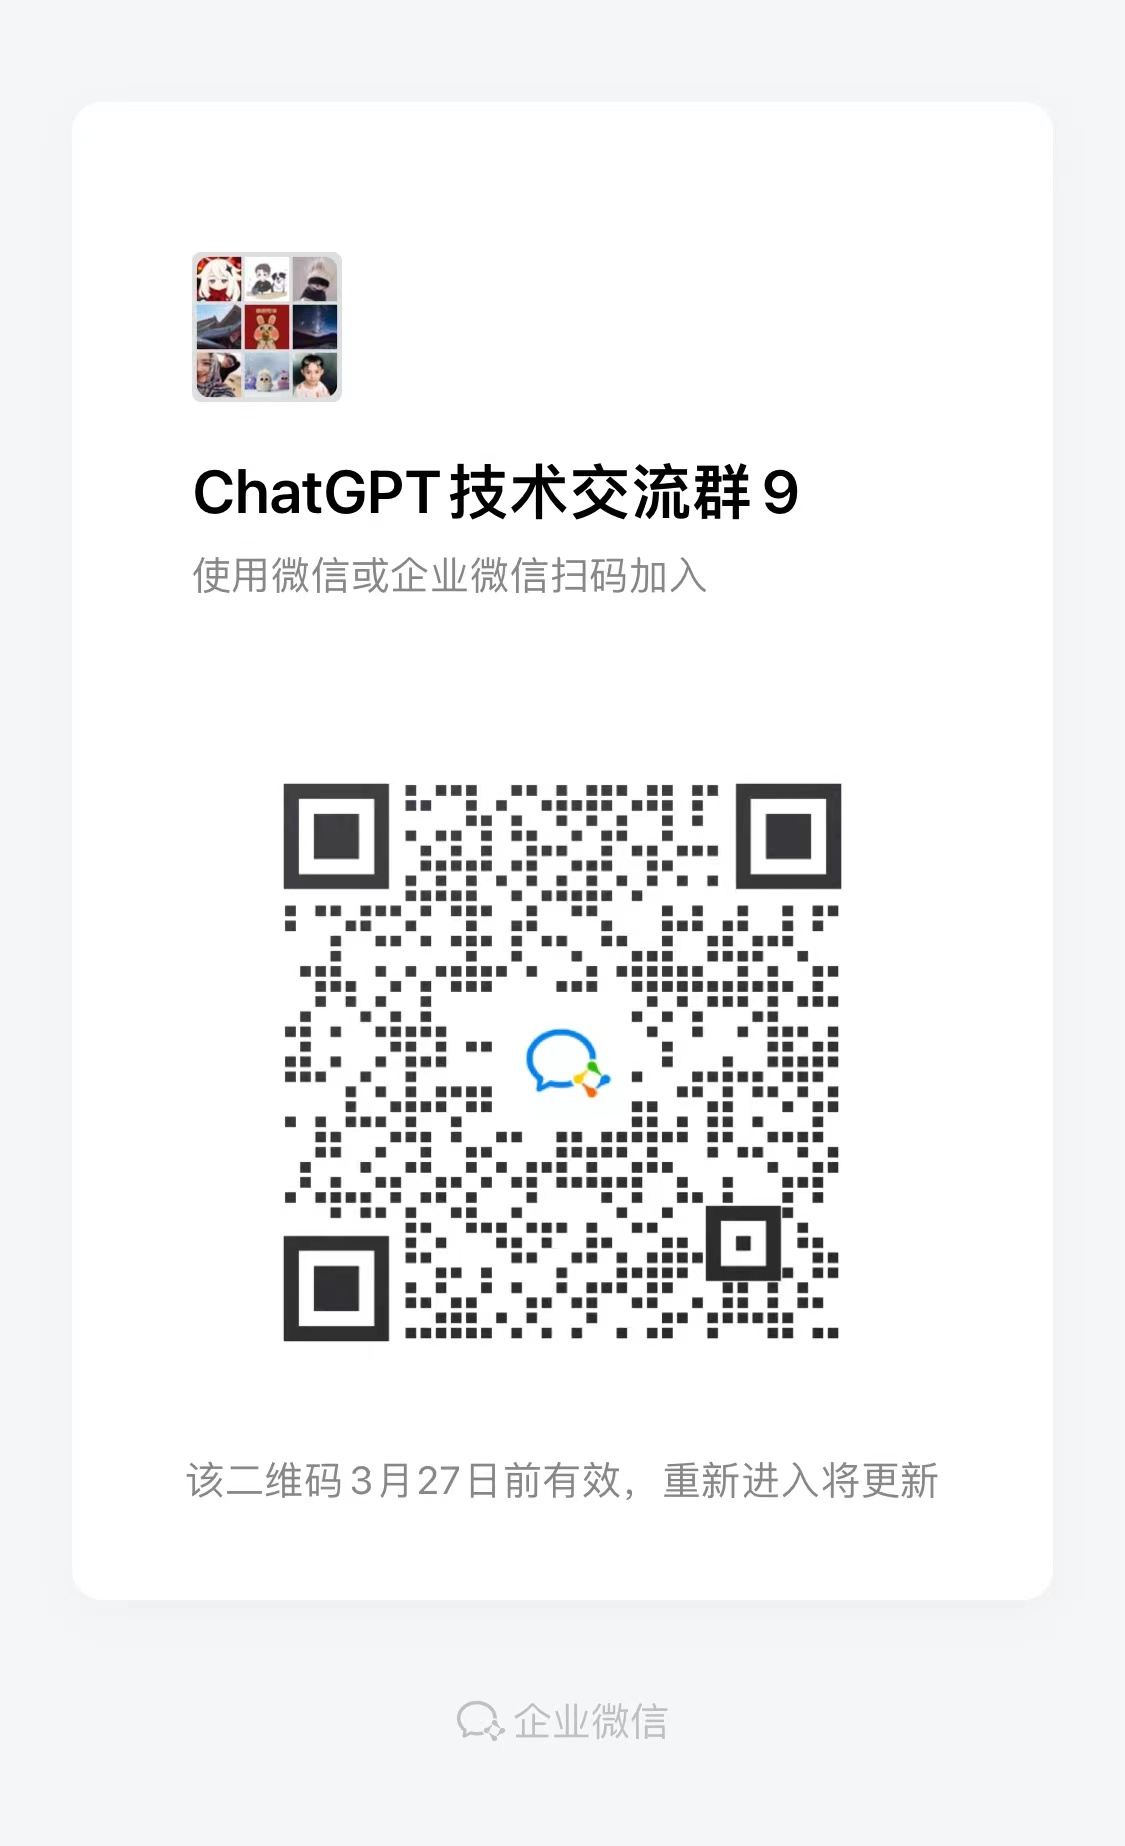
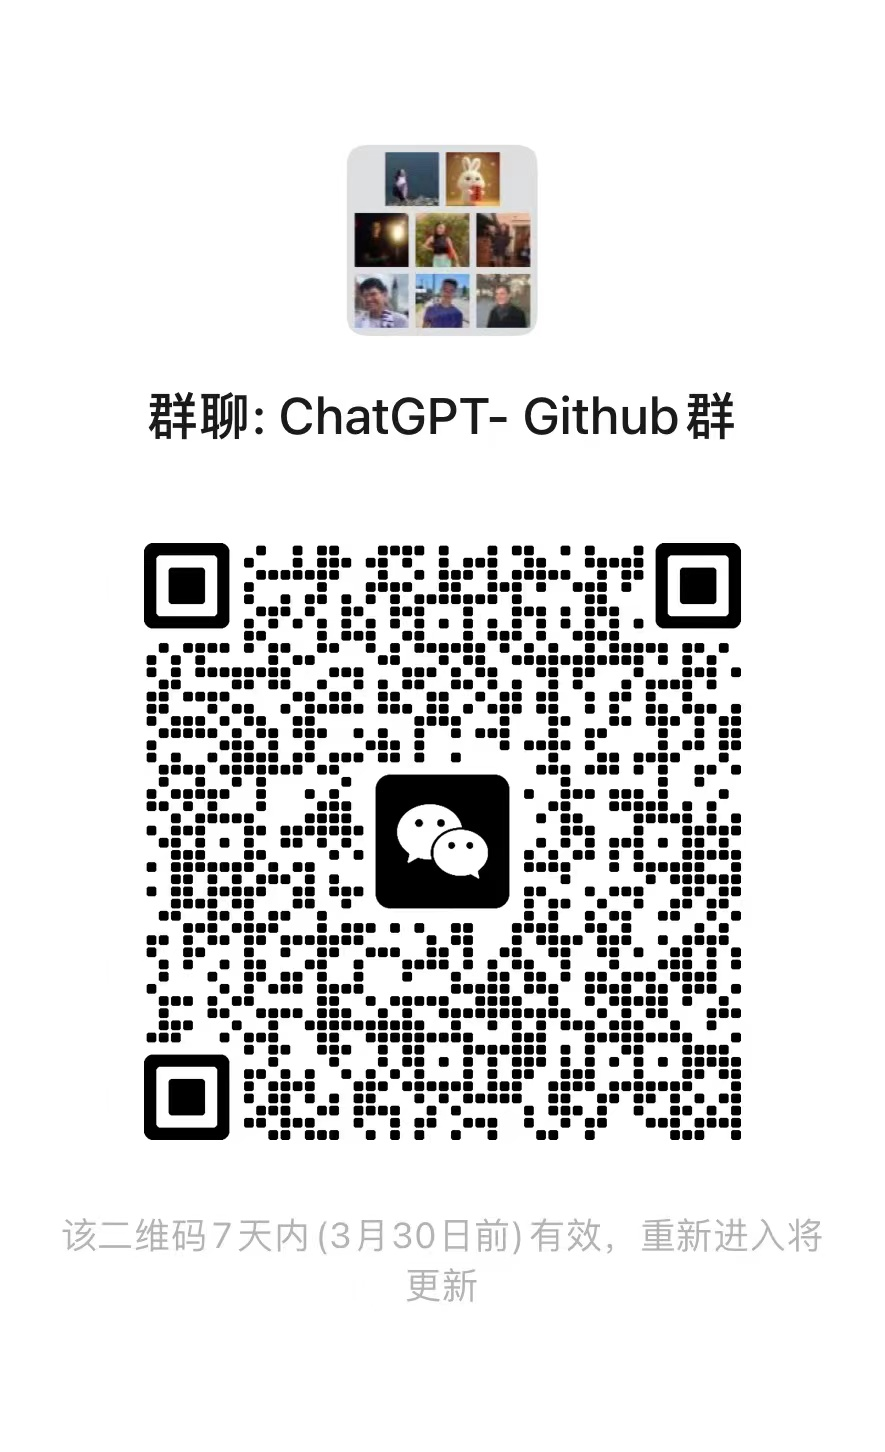
update group code

diff --git a/README.md b/README.md
@@ -12,12 +12,12 @@ ChatGPT工具和资料汇总学习，持续更新......
 【1】打造精品付费知识星球，已有众多伙伴加入。加入星球后，您将免费获得ChatGPT账户，并可免费进入「ChatGPT训练营VIP群」，共享最新资讯、技术实践及项目实施等经验。
 
 
-【2】ChatGPT Plus的好处不必多说了，但因其高昂的费用而未被广泛采用。为了解决这个问题，我们正在考虑众筹ChatGPT Plus，提供三个计划A、B、C，每人分别为49、32、26元/月。这将降低每个账号每月的成本，并为关注AI发展的朋友提供低成本体验ChatGPT Plus的机会。参与方式请扫下面👇🏻众筹计划的二维码，备注众筹，拉你进众筹群。
+[//]: # (【2】ChatGPT Plus的好处不必多说了，但因其高昂的费用而未被广泛采用。为了解决这个问题，我们正在考虑众筹ChatGPT Plus，提供三个计划A、B、C，每人分别为49、32、26元/月。这将降低每个账号每月的成本，并为关注AI发展的朋友提供低成本体验ChatGPT Plus的机会。参与方式请扫下面👇🏻众筹计划的二维码，备注众筹，拉你进众筹群。)
 
 
-| 二维码加群                                       | 公众号（回复"交流群"）                                      | 加入星球(更多优质内容)                                  | ChatGPT 众筹计划 （扫码备注众筹）                         
-|---------------------------------------------|---------------------------------------------------|-----------------------------------------------|-----------------------------------------------|
-| <img src="Picture/Chat8.jpg" width="300" /> | <img src="Picture/qrcode_MLIOT.jpg" width="200"/> | <img src="Picture/训练营优惠券.jpeg" width="250" /> | <img src="Picture/Yuanvip.png" width="200" /> | 
+| 二维码加群                                        | 公众号（回复"交流群"）                                      | 加入星球(更多优质内容)                                  |                          
+|----------------------------------------------|---------------------------------------------------|-----------------------------------------------|
+| <img src="Picture/Chat9.jpeg" width="300" /> | <img src="Picture/qrcode_MLIOT.jpg" width="200"/> | <img src="Picture/训练营优惠券.jpeg" width="250" /> |
 
 [//]: # (| 二维码加群                                        | 机器学习与物联网公众号（回复"交流群"）                              | 拉你入群&#40;备注github&#41;                            )
 
@@ -260,6 +260,7 @@ ChatGPT工具和资料汇总学习，持续更新......
 
 ## 资料
 【PDF资料】[哈尔滨工业大学-ChatGPT调研报告](OpenAI-ChatGPT/230311-哈尔滨工业大学-ChatGPT调研报告.pdf)
+
 【PDF资料】[ChatGPT-真格基金分享.pdf](OpenAI-ChatGPT-真格基金分享.pdf)  
 【PDF资料】[腾讯研究院AIGC发展趋势报告2023.pdf](OpenAI-ChatGPT/腾讯研究院AIGC发展趋势报告2023.pdf)  
 【PDF资料】[从CHAT_GPT到生成式AI（Generative AI）：人工智能新范式，重新定义生产力.pdf](OpenAI-ChatGPT/从CHAT_GPT到生成式AI.pdf)  
@@ -318,9 +319,10 @@ ChatGPT工具和资料汇总学习，持续更新......
 
 【🪜】ExpressVPN（https://www.expressvpn.com/）
 
-【🪜】科技熊 (https://kejibear.vip/auth/register?code=L8gB)
+[//]: # (【🪜】科技熊 &#40;https://kejibear.vip/auth/register?code=L8gB&#41;)
 
-【🪜】一元机场（https://xn--4gq62f52gdss.com/#/register?code=7xnKddGH）
+[//]: # ()
+[//]: # (【🪜】一元机场（https://xn--4gq62f52gdss.com/#/register?code=7xnKddGH）)
 
 
 ## 交流共享
@@ -330,20 +332,9 @@ ChatGPT工具和资料汇总学习，持续更新......
 
 创作不易，多少是一份心意，感谢老板随意赏~  
 
-<img src="Picture/vip打赏.jpeg" width="20%" height="20%" />   
-
-
-## 关于我
-YUAN哥，哈工大毕业，计算机研究生在读，研究方向：人工智能，机器学习与物联网
-
-v:
-
-<img src="Picture/Yuan.jpeg" width="15%" height="15%" /> 
+<img src="Picture/vip打赏.jpeg" width="20%" height="20%" />
 
 # ⚠声明
 以上资料来自网络整理，供大家学习参考，如有侵权，麻烦联系我删除！  
 
-v: 
-
-<img src="Picture/Yuan.jpeg" width="15%" height="15%" /> 
 
